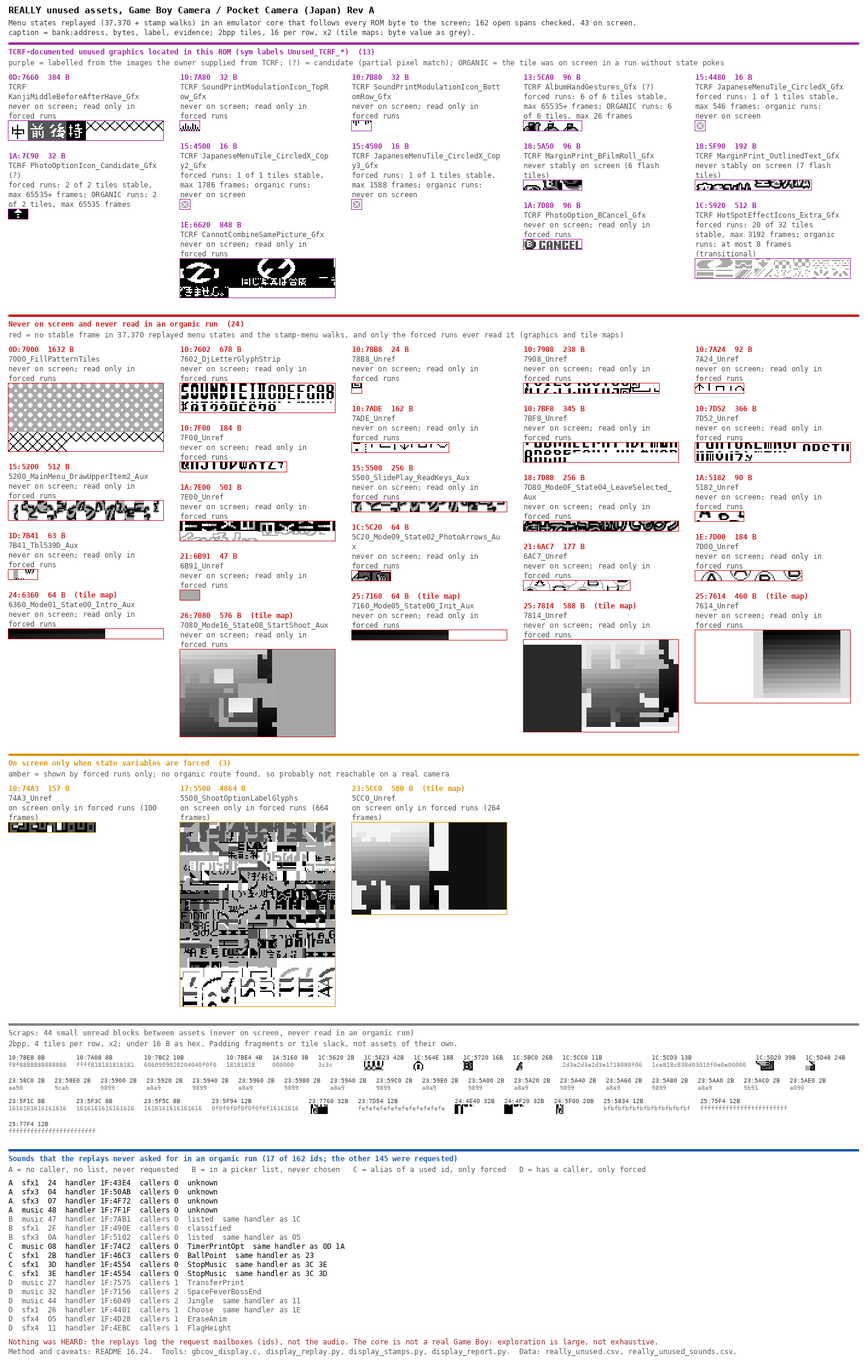
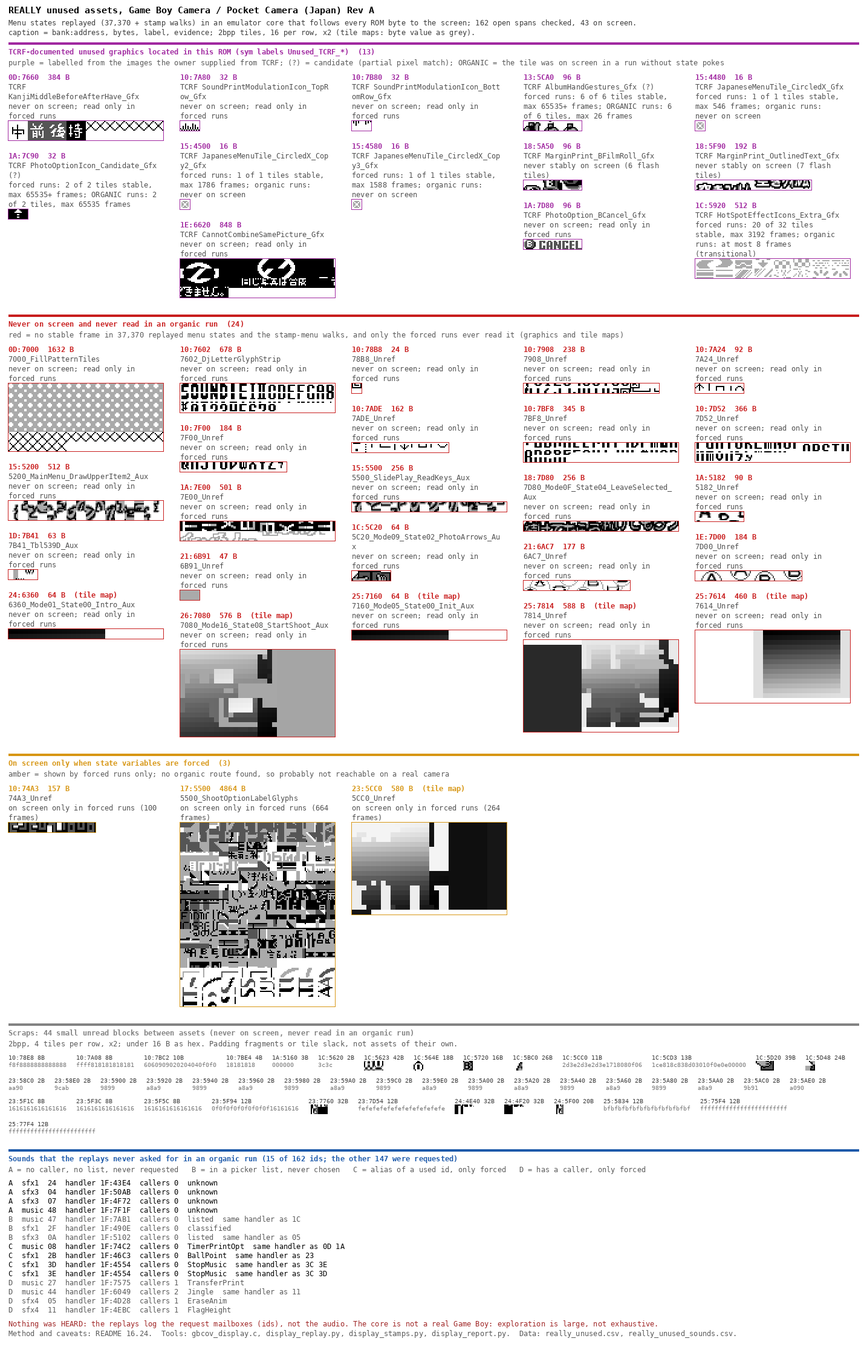
No table points at the open assets; music 32 and sfx1 26 were requested after all
table_scan.py searches the 33,590 B of data without asset label for pointer
tables (in-order, split low/high, strided) and evenly spaced series aimed at the
162 open spans, against a shifted-start null: no excess over the null, the
strongest clusters sit in labelled tables, the 16 series are the leftover ends
of fixed-size tile slots. Evidence I, limits in README 16.24.

Correction: the sound tiers came from the menu and stamp replays, which never
play Space Fever II. The Space Fever II key-log replay (sf2_sounds.csv, organic)
requests song 32 (12 times from frame 3128) and sfx1 26 (12 times from frame
2799). display_report.py now reads that file: 15 sound ids, not 17, are never
requested. Song 32 had been named from the place of its call (boss gone, back
to the waves); the label notes say so, the name is kept.

Claude-Session: https://claude.ai/code/session_01FyVRmHfUqNeQ8ayUFB5i6z

Changed region(s): [[0.0, 0.0, 0.9819, 0.9915], [0.583, 0.031, 0.7671, 0.1859]]

diff --git a/tcrf_check/tools/table_scan.py b/tcrf_check/tools/table_scan.py
@@ -1,0 +1,179 @@
+#!/usr/bin/env python3
+"""Is there an untagged pointer table that points at the still-open (untagged) asset spans?  README §16.24, "Tables that point at the open assets".
+
+Targets: the exact start of each of the 162 rows of tcrf_check/assets/unidentified/open_assets.csv (35,549 B).
+Search domain: bytes typed `data` in pocketcamera_jp.sym, banks 00-28, NOT covered by an asset label (Map_/Gfx_/Photo/Sgb/Src_/Unused_TCRF/Sheet/OamList/
+Song/Sfx/Snd_/Banner) and not inside an open span (33,590 B) -- i.e. every data byte that could still hide a table nobody named.
+
+Part 1 pointer clusters.  Forms: a split table (low bytes at p, high bytes at p+d, stride s = 1, d = -1024..1024) and interleaved records
+(stride 2..8, high byte at p+1), a word being a target when its high byte is 0x40-0x7F and (high << 8 | low) equals the start of an open span.
+A cluster = at least 3 hits in the same bank, at most 40 bytes apart, with at least 85 % of the entries having a high byte in 0x40-0x7F.
+Null model: every span start is moved to a random address of the same bank with the same alignment (the largest power of two dividing the start, at most 0x100)
+and the scan is repeated; if real tables existed, the real count would stand out of the null counts, in particular at the larger hit numbers.
+Part 2 evenly spaced series: runs of >= 4 span starts of one bank with a constant gap (a base + n * stride lookup done by code instead of a table).
+A series of spans of 2-10 bytes at a gap of 0x20 / 0x40 is the leftover end of fixed-size tile slots (the layout of the sheet around them), not an index.
+Part 3 bank switching: for the bank of each open span, how often the bank is selected (coverage/v8/report_v8/bank_select.csv, "organic" = joypad and save only).
+
+usage: table_scan.py [ROM] [trials]    (env GBCAM_ROM, GBCAM_REPO; writes tcrf_check/assets/unidentified/table_scan.txt)
+"""
+import sys, os, re, csv, random, bisect, collections
+import numpy as np
+REPO = os.environ.get('GBCAM_REPO', os.path.dirname(os.path.dirname(os.path.dirname(os.path.abspath(__file__)))))
+ROMF = sys.argv[1] if len(sys.argv) > 1 else os.environ.get('GBCAM_ROM', '/home/claude/gbcam_jp/pocketcamera_jp.gb')
+TRIALS = int(sys.argv[2]) if len(sys.argv) > 2 else 40
+rom = np.frombuffer(open(ROMF, 'rb').read(), dtype=np.uint8)
+N = len(rom)
+def off(b, a): return a if b == 0 else b * 0x4000 + (a - 0x4000)
+def rev(o): return (0, o) if o < 0x4000 else (o // 0x4000, 0x4000 + o % 0x4000)
+out = []
+def say(s=''):
+    print(s); out.append(s)
+
+# ---- sym: directives give the byte type, labels give the covering name
+typ = np.zeros(N, np.uint8)       # 0 data, 1 code, 2 padding, 3 text
+labels = {}
+K = {'code': 1, 'data': 0, 'padding': 2, 'text': 3}
+for l in open(REPO + '/pocketcamera_jp.sym'):
+    p = l.split()
+    if len(p) < 2: continue
+    b, a = p[0].split(':'); b = int(b, 16); a = int(a, 16)
+    if p[1].startswith('.'):
+        d = p[1][1:].split(':'); typ[off(b, a):off(b, a) + int(d[1], 16)] = K[d[0]]
+    else: labels[off(b, a)] = p[1]
+lab = sorted(labels.items()); lab_o = [x[0] for x in lab]
+ASSETP = re.compile(r'^(Map_|Gfx_|Photo|Sgb|Src_|Unused_TCRF|Sheet|OamList|Song|Sfx|Snd_|Banner)')
+cov = []; j = 0; last = ''
+for i in range(N):
+    while j < len(lab) and lab[j][0] <= i: last = lab[j][1]; j += 1
+    cov.append(last)
+opens = []
+for r in csv.DictReader(open(REPO + '/tcrf_check/assets/unidentified/open_assets.csv', encoding='utf-8')):
+    opens.append((int(r['bank'], 16), int(r['addr'], 16), int(r['bytes']), r['group'], r['name']))
+dom = (typ == 0) & np.array([not ASSETP.match(n) for n in cov])
+for b, a, n, g, nm in opens: dom[off(b, a):off(b, a) + n] = False
+dom[0x29 * 0x4000:] = False
+P = np.nonzero(dom)[0]
+rom16 = rom.astype(np.uint16)
+say('Targets: %d open spans, %d B.  Domain: %d B of untyped-as-asset data, banks 00-28.' % (len(opens), sum(o[2] for o in opens), len(P)))
+
+def alignment(a):
+    for al in (0x100, 0x80, 0x40, 0x20, 0x10, 8, 4, 2, 1):
+        if a % al == 0: return al
+def starts_of(spans):
+    isst = np.zeros(65536, bool); w2b = collections.defaultdict(set)
+    for b, a, n in spans: isst[a] = True; w2b[a].add(b)
+    return isst, w2b
+def scan(isst, w2b, minhits=3, validfrac=0.85):
+    found = []
+    for s, dl in ((1, range(-1024, 1025)), (2, [1]), (3, [1]), (4, [1]), (5, [1]), (6, [1]), (8, [1])):
+        for d in dl:
+            if s == 1 and d == 0: continue
+            q = P + d; ok = (q >= 0) & (q < N); p = P[ok]; q = q[ok]
+            m = dom[q]; p = p[m]; q = q[m]
+            H = rom16[q]; L = rom16[p]
+            valid = (H >= 0x40) & (H < 0x80)
+            w = (H << 8) | L
+            hit = valid & isst[w]
+            if not hit.any(): continue
+            hp = p[hit]; hw = w[hit]
+            vset = set(p[valid].tolist())
+            order = np.argsort(hp); hp = hp[order].tolist(); hw = hw[order].tolist()
+            i = 0
+            while i < len(hp):
+                k = i
+                while k + 1 < len(hp) and hp[k + 1] - hp[k] <= 40 * s and (hp[k + 1] - hp[k]) % s == 0: k += 1
+                if k - i + 1 >= minhits:
+                    first, lastp = hp[i], hp[k]
+                    pos = range(first, lastp + 1, s)
+                    vf = sum(1 for x in pos if x in vset) / len(pos)
+                    cnt = collections.Counter(); seen = set()
+                    for m_ in range(i, k + 1):
+                        for b in w2b[hw[m_]]:
+                            if (hp[m_], b) not in seen: seen.add((hp[m_], b)); cnt[b] += 1
+                    b, c = cnt.most_common(1)[0]
+                    if c >= minhits and vf >= validfrac: found.append((s, d, first, lastp, b, c, len(pos)))
+                i = k + 1
+    return found
+def hist(f): return [sum(1 for x in f if x[5] >= h) for h in (3, 4, 5, 6, 8, 10)]
+
+say()
+say('Part 1: pointer clusters (hits >= 3, 4, 5, 6, 8, 10 in one bank)')
+real = [(b, a, n) for b, a, n, g, nm in opens]
+obs = scan(*starts_of(real))
+ho = hist(obs)
+random.seed(7)
+nh = []
+for t in range(TRIALS):
+    sp = []
+    for b, a, n in real:
+        al = min(alignment(a), 0x100)
+        k = random.randrange(0x4000 // al, (0x8000 - n) // al + 1) * al
+        if k < 0x4000: k += al
+        sp.append((b, k, n))
+    nh.append(hist(scan(*starts_of(sp))))
+say('  real starts          : ' + '  '.join('%5d' % x for x in ho))
+say('  null mean (%d trials): ' % TRIALS + '  '.join('%5.1f' % (sum(h[i] for h in nh) / TRIALS) for i in range(6)))
+say('  null max             : ' + '  '.join('%5d' % max(h[i] for h in nh) for i in range(6)))
+say('  null min             : ' + '  '.join('%5d' % min(h[i] for h in nh) for i in range(6)))
+say('  strongest real clusters (stride, distance, first byte, entries, bank, hits, covering label):')
+for s, d, f, l, b, c, n in sorted(obs, key=lambda x: (-x[5], x[2]))[:12]:
+    bb, aa = rev(f)
+    say('    s=%d d=%+d at %02X:%04X entries=%d target bank %02X hits=%d  %s' % (s, d, bb, aa, n, b, c, cov[f]))
+
+say()
+say('Part 2: evenly spaced series of open-span starts (>= 4 terms, one bank, constant gap)')
+byb = collections.defaultdict(list)
+for b, a, n, g, nm in opens: byb[b].append(a)
+def series(starts_by_bank):
+    res = []
+    for b, al in starts_by_bank.items():
+        al = sorted(set(al)); sset = set(al)
+        for i, x in enumerate(al):
+            for y in al[i + 1:]:
+                g = y - x
+                if g < 0x10: continue
+                if (x - g) in sset: continue          # not the first term
+                t = [x, y]
+                while t[-1] + g in sset: t.append(t[-1] + g)
+                if len(t) >= 4: res.append((b, g, t))
+    return res
+rs = series(byb)
+say('  real: %d series' % len(rs))
+szs = {(b, a): n for b, a, n, g_, nm in opens}
+for b, g, t in rs: say('    bank %02X gap 0x%X terms %d span sizes %s: %s' % (b, g, len(t), sorted({szs[(b, x)] for x in t}), ' '.join('%04X' % x for x in t)))
+random.seed(11)
+nc = []
+for t_ in range(200):
+    sb = collections.defaultdict(list)
+    for b, a, n, g, nm in opens:
+        al = min(alignment(a), 0x100)
+        k = random.randrange(0x4000 // al, (0x8000 - n) // al + 1) * al
+        sb[b].append(max(k, 0x4000))
+    nc.append(len(series(sb)))
+say('  null (200 shifted-start trials): mean %.2f, max %d' % (sum(nc) / 200, max(nc)))
+
+say()
+say('Part 3: how often the bank of each open span is selected')
+sel = collections.defaultdict(lambda: [0, 0])
+for r in csv.DictReader(open(REPO + '/coverage/v8/report_v8/bank_select.csv')):
+    b = int(r['new_bank'], 16); sel[b][0] += int(r['count']); sel[b][1] += int(r['count_organic'])
+ext = []
+for r in csv.DictReader(open(REPO + '/coverage/v8/report_v8/data_extents.csv')):
+    s = r['start'].split(':'); e = r['end'].split(':')
+    ext.append((off(int(s[0], 16), int(s[1], 16)), off(int(e[0], 16), int(e[1], 16)), int(r['bytes_read']), int(r['bytes_read_organic'])))
+tot = collections.defaultdict(lambda: [0, 0, 0, 0])
+for b, a, n, g, nm in opens:
+    o0 = off(b, a); rd = ro = 0
+    for s, e, br, bo in ext:
+        if s <= o0 + n - 1 and e >= o0:
+            # extents are runs of read data; count only the overlap when the extent is fully inside the span
+            if s >= o0 and e < o0 + n: rd += br; ro += bo
+    t = tot[g]; t[0] += 1
+    if sel[b][1] == 0: t[1] += 1
+    if sel[b][0] == 0: t[2] += 1
+    if rd: t[3] += 1
+say('  group                                   spans  bank never selected organically  bank never selected at all  with read bytes inside')
+for g, t in sorted(tot.items()): say('  %-40s %4d %20d %28d %20d' % (g, t[0], t[1], t[2], t[3]))
+bl = sorted({b for b, a, n, g, nm in opens})
+say('  per bank (selected total / organic): ' + ', '.join('%02X %d/%d' % (b, sel[b][0], sel[b][1]) for b in bl))
+open(REPO + '/tcrf_check/assets/unidentified/table_scan.txt', 'w').write('\n'.join(out) + '\n')

diff --git a/tcrf_check/tools/display_report.py b/tcrf_check/tools/display_report.py
@@ -64,10 +64,18 @@ for r in rows:
         r['tier'] = 'scrap' if (v['stable'] == 0 and v['read_org'] == 0) else 'other'
 # ---- sounds
 CH = {'sfx1': (0, 4), 'music': (1, 5), 'sfx3': (2, 6), 'sfx4': (3, 7)}
+# The Space Fever II key-log replay (sf2_sound.py, organic corpus, no poke) is not part of the menu / stamp replays above: an id it requested counts as organic
+# (music 32 and sfx1 26 were listed as "only forced" until this was added, although credits_parlor/sf2_sounds.csv had them since §16.18)
+SF2 = set()
+_sf2 = REPO + '/tcrf_check/assets/credits_parlor/sf2_sounds.csv'
+if os.path.exists(_sf2):
+    for r in csv.DictReader(open(_sf2, encoding='utf-8')):
+        if int(r['mailbox_requests_seen']) > 0: SF2.add((r['channel'], r['id'].upper()))
 sounds = []
 for r in csv.DictReader(open(OUT + '/sound_inventory.csv', encoding='utf-8')):
     rq, run = CH[r['channel']]; i = int(r['id'], 16); seen = int(snd[rq][i]) | int(snd[run][i])
     dyn = 'organic' if seen & 2 else ('forced only' if seen & 1 else 'never')
+    if (r['channel'], r['id'].upper()) in SF2: dyn = 'organic'
     ncall = int(r['static_callers']); lst = bool(r['picker_lists'])
     if dyn == 'organic': continue
     if dyn == 'never' and not ncall and not lst: tier = 'A never requested, no caller, no list'

diff --git a/README.md b/README.md
@@ -3707,9 +3707,11 @@ The sym carries 13 `Unused_TCRF_*` labels (I = pixel match with doubts, C = exac
 
 *The stamp banks, relabelled exactly* (from the code tables and the coverage, all gaps are zero padding): `2C:4000` category 0 faces, `2D:4000` 1 icons, `2C:6000` 2 Pokémon, `2B:4000` 3 CoroCoro, `2A:6000` 4 / 5 small kana, `2E:4000` 6 / 7 hiragana, `30:4000` 8 / 9 katakana, `2F:7000` 10 / 11 digits, `30:6000` 12 / 13 Latin, `2E:5800` 14 / 15 kanji, `2F:5800` 16 symbols; the 1bpp masks are at `2D:7000`, `2F:4000`, `2E:7000`, `2B:5800`, `30:7000`. 16 range labels (`StampCatNN_*_Gfx`, `StampCatNN_Mask`) replace 279 per-glyph guesses.
 
-*Sounds* (`sound_inventory.csv`, 162 ids with caller, picker list and handler; `really_unused_sounds.csv`). A sound counts as requested when a replay wrote its id to a request mailbox (`$DD60` effects 1, `$DD68` songs, `$DD70` effects 3, `$DD78` effects 4) in an organic run: **145 of 162 were, 17 were not**. A = no caller, no list, never requested: song `48`, effects `sfx1 24`, `sfx3 04`, `sfx3 07`. B = in a picker list but never chosen: song `47`, `sfx1 2F`, `sfx3 0A`. C = same data as a used id: song `08`, `sfx1 2B`, `3D`, `3E`. D = has a static caller but only forced runs reached it: songs `27`, `32`, `44`, `sfx1 26`, `sfx4 05`, `11`. D is not proof of dead code.
+*Sounds* (`sound_inventory.csv`, 162 ids with caller, picker list and handler; `really_unused_sounds.csv`). A sound counts as requested when a replay wrote its id to a request mailbox (`$DD60` effects 1, `$DD68` songs, `$DD70` effects 3, `$DD78` effects 4) in an organic run: **147 of 162 were, 15 were not** (a first count said 17: songs `32` and `sfx1 26` were listed in tier D because the menu and stamp replays never play Space Fever II; the key-log replay of `sf2_sound.py`, an organic corpus without pokes, requests `32` 12 times from frame 3128 and `sfx1 26` 12 times from frame 2799, `credits_parlor/sf2_sounds.csv`, and `display_report.py` now reads that file). A = no caller, no list, never requested: song `48`, effects `sfx1 24`, `sfx3 04`, `sfx3 07`. B = in a picker list but never chosen: song `47`, `sfx1 2F`, `sfx3 0A`. C = same data as a used id: song `08`, `sfx1 2B`, `3D`, `3E`. D = has a static caller but only forced runs reached it: songs `27`, `44`, `sfx4 05`, `11`. D is not proof of dead code.
 
-*What this does not show.* **Nobody listened**: the sound results are mailbox logs. The core is not a console and the exploration, though large, is not exhaustive: "never on screen" is strong evidence, not proof. The review page published for the owner shows each span with tile, map and hex views, flip / width / invert buttons, the TCRF image beside its ROM bytes, the 17 sounds with engine clips, and a reference tab with song data drawn as tiles; the answers it collects are meant for `disasm/owner_answers_jp.csv`. **Answers (2026-10-13, 53 rows now in that file: 13 TCRF cards, 27 asset cards, 13 sounds):** of the 13 TCRF cards, 12 were marked "right" by eye (cannot combine, kanji strip, B CANCEL, SOUND icon, the 8 hot-spot icons, margin-print film roll and font, circled X at `15:4480-4580`, the Magic-bank tile and tiles, the photo-option icon `1A:7C90`, the R!R!R! star `1B:618A`) and one, the album hand gestures, "partly" (my matcher finds 23 of 32 non-blank tiles, and part of the sheet is on screen in normal play); **27 asset cards** were answered: 14 "graphic" (`10:74A3`, `10:78B8`, `10:7F00`, `15:5200`, `15:5500`, `17:5500`, `18:7D80`, `1A:5182`, `1A:7E00`, `1C:5C20`, `1D:7B41` with the note "looks like an enemy in Space Fever", `1E:7D00`, `21:6AC7`, `21:6B91`), 3 "map" (`23:5CC0`, `25:7614`, `25:7814`) and 10 "unsure" (small unread blocks `10:78E8`, `10:7A08`, `10:7BC2`, `10:7BE4`, `1A:5160`, `1C:5620`, `1C:5623`, `1C:564E`, `1C:5720`, `1C:5BC0`). No notes were left. "Right" is an eye check of the ROM bytes against the TCRF picture: it does not change the display-tracking evidence (the photo-option icon is still on screen in normal play). **Sounds heard by the owner on the page (13 answers, by ear, from my engine clips):** `used` for music 08 ("printer waiting jingle during multiple print selection"), 27 ("jingle during the waiting time while the Game Boy Printer is busy printing"), 32 ("Space Fever main theme during gameplay"), 44 ("credits, short"), sfx1 24 ("Space Fever probably", tier A: no caller was found, so "no caller" is not proof of unused), 26 ("boss death in Space Fever"), 3D and 3E ("death in Ball or Space Fever") and sfx4 05 ("player death in Space Fever ?"); `unused` for music 47 ("classical music theme (Mozart ?)", tier B: only in the slide-show list); `known` for music 48 (error message, incomplete); `unsure` for sfx1 2F and sfx3 04. They fit the callers for 08 and 27 and disagree with two names that I built from callers: song 32 is `Song32_SpaceFeverBossEnd` (callers `SpaceFever_Boss_EndA`) and sfx4 05 is `EraseAnim` (caller `EraseAnim_Run`); both names are kept with the owner's answer in the label note until someone settles them. Song 48 is now `Song48_ErrorIncomplete_*` (the earlier README claimed that name but the sym still had `Song48_Hdr`). **What changed in the sym:** the 14 "graphic" and 3 "map" spans are now `C` (type confirmed by the owner, with the answer in the label note; the doubt list still carries them, with "type confirmed by the owner; role and consumer not found", because the role is unknown and the really-unused picture is built from that list); `Data_10_78B8` and `Data_21_6B91` (24 and 47 bytes) are now `Gfx_10_78B8_Unref` and `Gfx_21_6B91_Unref`; the three "map" spans were wrongly named or typed by me, `Gfx_23_5CC0_LetterGlyphStrip` and `Gfx_25_7814_LetterGlyphStrip` (a guessed Latin letter strip) and `Gfx_25_7614_Unref`, and are now `Map_23_5CC0_Unref`, `Map_25_7814_Unref` and `Map_25_7614_Unref` (the bytes agree: rows of tile indices, runs of one value, counters `$00-$1F`). The 10 "unsure" blocks are unchanged. Labels 5,334 (C 3,492, I 1,669, ? 173), md5 round trip unchanged (plain and after `sym_fix`).
+*What this does not show.* **Nobody listened**: the sound results are mailbox logs. The core is not a console and the exploration, though large, is not exhaustive: "never on screen" is strong evidence, not proof. The review page published for the owner shows each span with tile, map and hex views, flip / width / invert buttons, the TCRF image beside its ROM bytes, the 17 sounds of the first count with engine clips (15 after the correction in the *Sounds* paragraph; the published page still lists 17), and a reference tab with song data drawn as tiles; the answers it collects are meant for `disasm/owner_answers_jp.csv`. **Answers (2026-10-13, 53 rows now in that file: 13 TCRF cards, 27 asset cards, 13 sounds):** of the 13 TCRF cards, 12 were marked "right" by eye (cannot combine, kanji strip, B CANCEL, SOUND icon, the 8 hot-spot icons, margin-print film roll and font, circled X at `15:4480-4580`, the Magic-bank tile and tiles, the photo-option icon `1A:7C90`, the R!R!R! star `1B:618A`) and one, the album hand gestures, "partly" (my matcher finds 23 of 32 non-blank tiles, and part of the sheet is on screen in normal play); **27 asset cards** were answered: 14 "graphic" (`10:74A3`, `10:78B8`, `10:7F00`, `15:5200`, `15:5500`, `17:5500`, `18:7D80`, `1A:5182`, `1A:7E00`, `1C:5C20`, `1D:7B41` with the note "looks like an enemy in Space Fever", `1E:7D00`, `21:6AC7`, `21:6B91`), 3 "map" (`23:5CC0`, `25:7614`, `25:7814`) and 10 "unsure" (small unread blocks `10:78E8`, `10:7A08`, `10:7BC2`, `10:7BE4`, `1A:5160`, `1C:5620`, `1C:5623`, `1C:564E`, `1C:5720`, `1C:5BC0`). No notes were left. "Right" is an eye check of the ROM bytes against the TCRF picture: it does not change the display-tracking evidence (the photo-option icon is still on screen in normal play). **Sounds heard by the owner on the page (13 answers, by ear, from my engine clips):** `used` for music 08 ("printer waiting jingle during multiple print selection"), 27 ("jingle during the waiting time while the Game Boy Printer is busy printing"), 32 ("Space Fever main theme during gameplay"), 44 ("credits, short"), sfx1 24 ("Space Fever probably", tier A: no caller was found, so "no caller" is not proof of unused), 26 ("boss death in Space Fever"), 3D and 3E ("death in Ball or Space Fever") and sfx4 05 ("player death in Space Fever ?"); `unused` for music 47 ("classical music theme (Mozart ?)", tier B: only in the slide-show list); `known` for music 48 (error message, incomplete); `unsure` for sfx1 2F and sfx3 04. They fit the callers for 08 and 27 and disagree with two names that I built from callers: song 32 is `Song32_SpaceFeverBossEnd` (callers `SpaceFever_Boss_EndA`) and sfx4 05 is `EraseAnim` (caller `EraseAnim_Run`); both names are kept with the owner's answer in the label note until someone settles them. **How song 32 was missed (the owner asked):** its only static caller is `SpaceFever_Boss_EndA` (`07:62D5`, state 10, "boss gone; back to wave state 2"); I read "called in the boss code" as "boss-end jingle" and named the song after the place of the call, while a request made as the game returns to the waves can as well restart the gameplay music. It was also counted among the sounds that no organic run requested, which is wrong: the Space Fever II key-log replay (§16.18, `sf2_sound.py`) requests it 12 times from frame 3128 (after the boss music `$42` at frame 2049; `$31` runs 138 frames at the start), and `sfx1 26` 12 times from frame 2799; the two lists were never cross-checked. The count is 15 and `display_report.py` now reads `sf2_sounds.csv`. What plays during waves 1-3 of that replay, and whether the owner's "main theme" is `$31` continued or the same melody as `$32`, was not checked (I). Song 48 is now `Song48_ErrorIncomplete_*` (the earlier README claimed that name but the sym still had `Song48_Hdr`). **What changed in the sym:** the 14 "graphic" and 3 "map" spans are now `C` (type confirmed by the owner, with the answer in the label note; the doubt list still carries them, with "type confirmed by the owner; role and consumer not found", because the role is unknown and the really-unused picture is built from that list); `Data_10_78B8` and `Data_21_6B91` (24 and 47 bytes) are now `Gfx_10_78B8_Unref` and `Gfx_21_6B91_Unref`; the three "map" spans were wrongly named or typed by me, `Gfx_23_5CC0_LetterGlyphStrip` and `Gfx_25_7814_LetterGlyphStrip` (a guessed Latin letter strip) and `Gfx_25_7614_Unref`, and are now `Map_23_5CC0_Unref`, `Map_25_7814_Unref` and `Map_25_7614_Unref` (the bytes agree: rows of tile indices, runs of one value, counters `$00-$1F`). The 10 "unsure" blocks are unchanged. Labels 5,334 (C 3,492, I 1,669, ? 173), md5 round trip unchanged (plain and after `sym_fix`).
+
+**Tables that point at the open assets (negative; `tcrf_check/tools/table_scan.py`, result in `tcrf_check/assets/unidentified/table_scan.txt`).** Question (owner): is there an untagged table whose entries are the starts of the 162 open spans (35,549 B)? Domain: the 33,590 B of `data` bytes of banks 00-28 that carry no asset label and are not inside an open span. Forms searched: words (low, high) read in order, words followed by a bank byte, and split low / high arrays (high bytes at distance ±1024 from the low bytes, stride 1) or interleaved records of stride 2-8, a word counting when it equals the exact start of an open span, the cluster being at least 3 hits in the same bank within 40 bytes with at least 85 % of its entries in `$40xx-$7Fxx`. Null model: every span start moved to a random address of the same bank with the same alignment (largest power of two dividing the start, at most `$100`), 40 trials. **Result:** nothing consistent in one bank for the in-order word and bank-byte forms; for the split and strided forms the real data gives 1,148 clusters of at least 3 hits against 965 for the null (range 499-1,377), and 9 clusters of at least 8 hits against a null mean of 78 (the null reaches 730 when a shifted start lands on a value that many words repeat, such as `$4000`); the twelve strongest real clusters all sit inside labelled tables (`WildFrame_PageSrcTbl`: 20 identical words `$4000`, `Stamp_PaletteCursorTbl`, `AnimEd_DrawHandSprite_Tbl5466`, `OamPtrTbl_B02_5272`, `AlbumB_SlotTbl`) or a zero fill. **Evenly spaced series:** 16 runs of at least 4 span starts with a constant gap, against 0.23 for the null, but all of them are the 2, 8 and 10 byte leftovers at the end of fixed-size tile slots (bank 23 `58C0-5AE0`, 18 spans of 2 B at `$20` steps; bank 27 `5BF8-5D20`, 8 B at `$40`; bank 2A `5430-54F0`, 10 B at `$40`), i.e. the layout of the sheets around them and not an index. **Bank switching:** every bank that holds an open span is selected in the organic runs (`bank_select.csv`, v8), so the question "which banks are never switched in" does not separate anything, and a selected bank says nothing about which address is read; the callsite-to-span mapping was therefore not built. **What this cannot exclude:** a table in bytes typed as code, a pointer to the inside of a span (not its start), a base + index × stride lookup whose base the scan does not see, a table in banks 29 and above (not scanned; bank 2A holds 7 open spans), and a table whose entries were never in this form. Evidence I (absence of a match, not a proof).
 
 ## 17. Printing in BGB (printer helper), the print features, and the BGB coverage re-trace
 

diff --git a/CLAUDE.md b/CLAUDE.md
@@ -47,7 +47,8 @@ md5 `fdcfe686cf4df461e870b6e53b2b5a8b`; the international ROM is md5 `42d2f65e25
 * Real credits and the parlor RUN (README §16.22): the real credits (CLIP THIS, One Love, staff roll, ending plate) run for about 13,600 frames and need **no B press** (B = `Mode08_CreditsAbort` = the short Nishimura-dance credits); the SHOOT parlor RUN shows one of 4 pictures (tunes `$28`/`$29`/`$30`/`$2A`) with the messages `$04` / `$08` / `$0E`. The owner's answers on the worklist page are in `disasm/owner_answers_jp.csv`; **the dancer of the short credits is Kentaro Nishimura (not Miyamoto), the staff roll's dancing girl is unidentified.** My core's screen renderer misses tiles (more than 256 background tiles per frame are shown with a V-Blank trick): take screenshots in BGB (`bgbgrab.py`, `bgb_jobs.py`).
 * Lesson of §16.19 for the never-run code: what is left is gated by data or by chords, not by single keys. Taps + 8 single keys cannot do "a direction while A is held" (D.J. editor, COMPOSE pickers), nor values the saves never held (F33, Game Face, blank calibration vector, slide-show start / end markers); search with chords (34 keys) and edit the save (a valid save can be patched before the boot, the blank `_ff` only in the core after it).
 * Lessons of §16.21 (WRAM / SRAM pokes in the core, `tcrf_check/tools/force_open.py`): the gates that were left were data, not keys: **a direction pressed while A is already held** (D.J. steppers and wave grid), **counter wraps** (`$D6E2` = 99, copy counter 10), **filled tables** (a slide-show list before erase-all, the printer size tables, `$DC0B`), **out-of-range cursors** that make a ROM table byte equal a designed value (effect index 13 / 15 / 60 / 61 through `$D7E3` / `$D7E4`; the `$FF` end of the SHOW menu table), save contents (corrupt owner block), race state (place counter `$FF`, best time = time run). A poke lands between frames and a frame ends right after the VBlank handler: a variable the main loop recomputes each frame cannot be forced (`00:1137`); a value only known in the frame it is used (race time) needs the **two-pass snapshot / restore** trick (`run_record_equal`). Table overruns (a state, mode or hot-spot effect number past the end of its word table) run garbage words: credit them separately (`state_overrun`) and never call them designed paths. **EDGE bytes** (`inc d` / `inc h` / `dec d` behind `jr nc` / `jr nz`) are deterministic carry steps: when the pointer start and the counts are immediates the low byte can be proven never to wrap (35 proven); the copy helpers `00:05F8` / `00:0450` advance DE / HL themselves, so mind who pushes and pops. Byte classes of `rom_map.csv`: C organic code, F code run only in forced runs, N never-run code, T tables, R / r read data.
-* Really unused assets (README §16.24, `tcrf_check/assets/unidentified/really_unused.png` / `.csv`, `really_unused_sounds.csv`): a core that follows every ROM byte to the screen (`tcrf_check/tools/gbcov_display.c`, 37,370 replayed menu states plus the stamp-menu walks; "on screen" = at least 15 frames, organic = no state poke) says which open spans are never shown: 24 spans (19 graphics, 5 tile maps) never on screen and never read organically, 3 only when forced, 13 labelled `Unused_TCRF_*`; 17 of 162 sound ids were never requested in an organic run (tiers A-D). **Nobody listened and the exploration is not exhaustive** (the owner did listen to 13 of the 17 sounds on the review page, README §16.24: his notes are in `disasm/owner_answers_jp.csv` and in the label notes; two of them disagree with names I built from callers, song 32 and sfx4 05). The stamp banks `$2A-$30` are labelled exactly (16 range labels). An earlier claim "no open asset is displayed on the BGB screens" was wrong (upper-case-only hex parse of the sym).
+* Really unused assets (README §16.24, `tcrf_check/assets/unidentified/really_unused.png` / `.csv`, `really_unused_sounds.csv`): a core that follows every ROM byte to the screen (`tcrf_check/tools/gbcov_display.c`, 37,370 replayed menu states plus the stamp-menu walks; "on screen" = at least 15 frames, organic = no state poke) says which open spans are never shown: 24 spans (19 graphics, 5 tile maps) never on screen and never read organically, 3 only when forced, 13 labelled `Unused_TCRF_*`; 15 of 162 sound ids were never requested in an organic run (tiers A-D; the first count said 17: song 32 and sfx1 26 are requested in the Space Fever II key-log replay, `credits_parlor/sf2_sounds.csv`). **Nobody listened and the exploration is not exhaustive** (the owner did listen to 13 of the 17 sounds of the first count on the review page, README §16.24: his notes are in `disasm/owner_answers_jp.csv` and in the label notes; two of them disagree with names I built from callers, song 32 and sfx4 05; song 32's caller is the boss-gone state that goes back to the waves, so the name came from the place of the call). The stamp banks `$2A-$30` are labelled exactly (16 range labels). An earlier claim "no open asset is displayed on the BGB screens" was wrong (upper-case-only hex parse of the sym).
+* No untagged pointer table, split low / high table or evenly spaced series points at the open assets (README §16.24, `tcrf_check/tools/table_scan.py`; evidence I: tables in code-typed bytes, inside-span pointers and banks 29+ were not searched).
 * Closed by the owner: names of the 16 hot-spot icons, effect timing, CoroCoro on a real international camera (§16.12).
 * GameFAQs cheats page (https://gamefaqs.gamespot.com/gameboy/564359-game-boy-camera/cheats): every line tried in the core and BGB, Space Fever II and BALL played with the joypad only to 7,113 / 1,100 points, all Album B gates run at the exact threshold on both ROMs, RUN! gates run with real races: §16.18. Page vs code: B19 needs 15 transferred pictures (page: 5), the "5 males / 5 females" counters count received pictures by the sender's gender bit, "17 / 16 seconds" = displayed below 18:00 / 17:00. Cite the page in the README wherever a finding matches it. Space Fever II cannot be replayed in BGB (random wave offsets); BALL can. **No end to either game (§16.18, `ball_cap.py`):** both scores use the saturating BCD add `00:0F9C` (BALL stops at 9999, Space Fever II at 99,999,999; BALL went on past 9999 in the core), BALL's speed is a saw-tooth that repeats every 100 points from 400, Space Fever II loops its three waves and the boss for ever (round `$D88E` caps at 7, the target menu is shown once).
 * Never-run code: closed as far as WRAM / SRAM pokes, saves and keys go (§16.21). What is left is `00:1137` (needs a poke inside a frame), the sound-engine tails `1F:5234` / `522A` (504 mailbox trials negative), the printer idle-poll pieces `00:1B2D` / `1B36` (a serial-IRQ race), and the proven-dead code (evidence I only: a computed jump or a far call that the scans missed would defeat the verdicts). Not done: BGB replays of the §16.21 credits, the international credits and 16 s gates.
